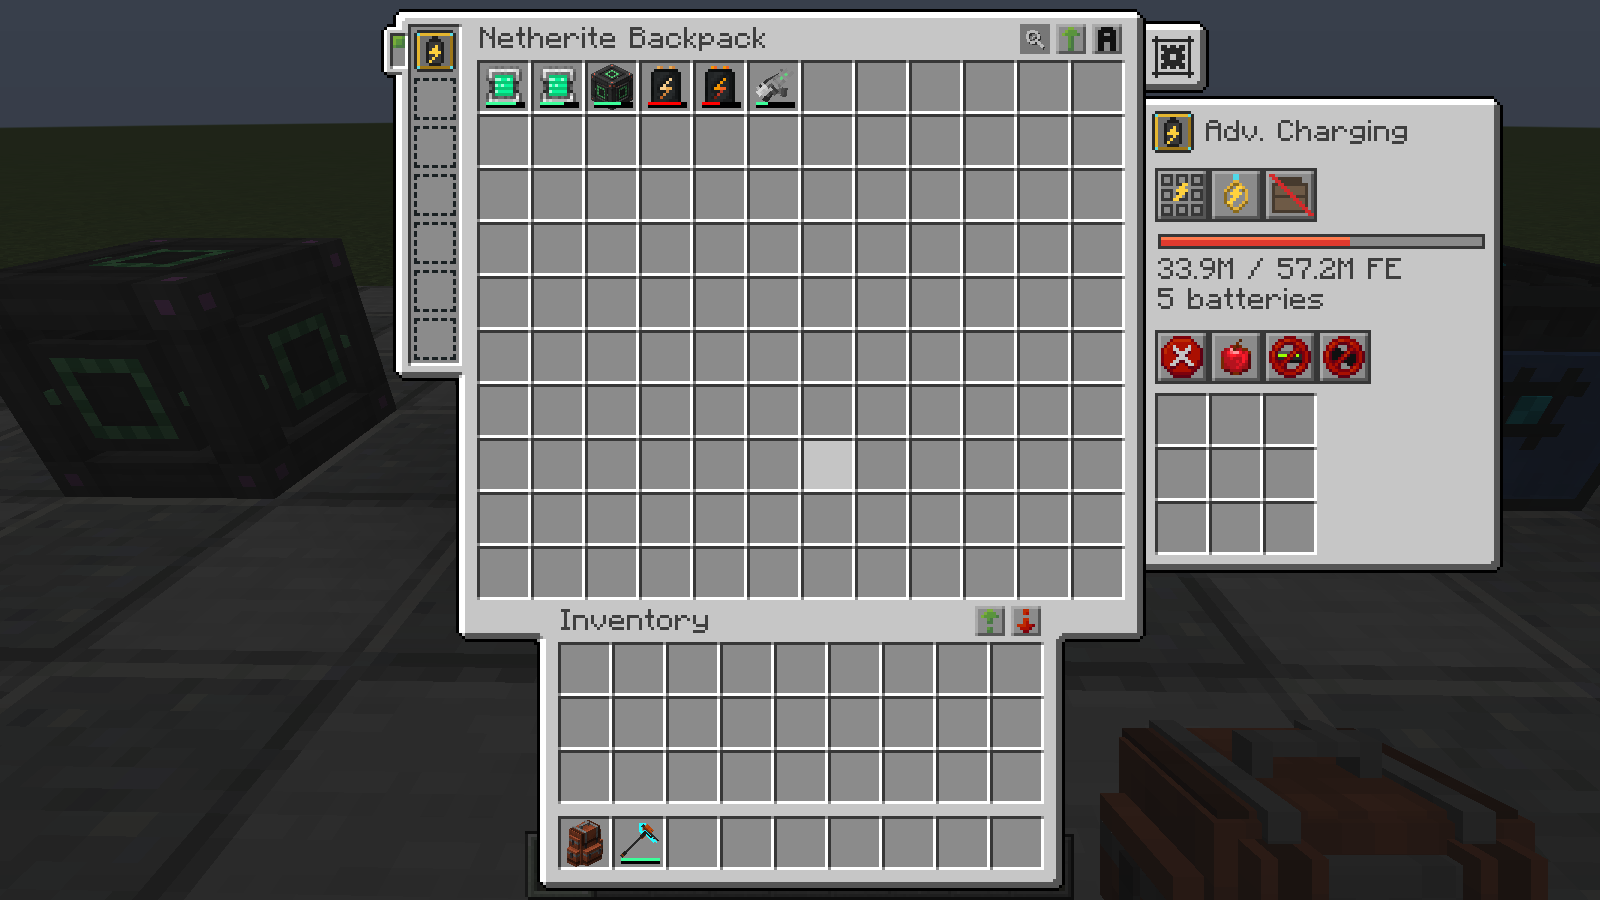
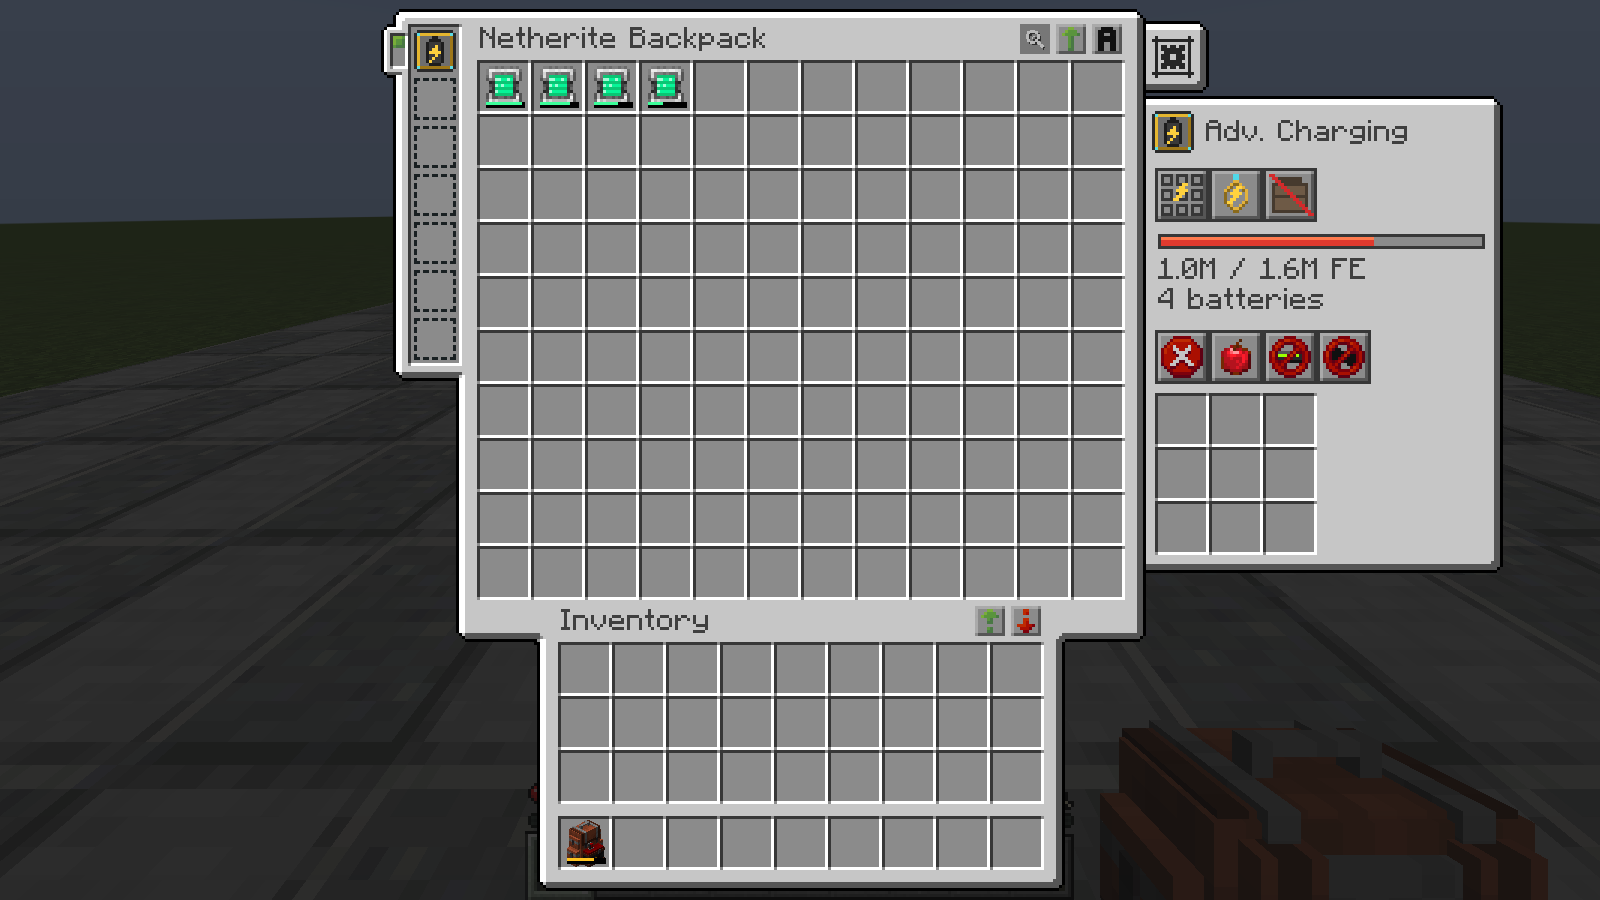
Update the README and images for 1.1.0

diff --git a/README.md b/README.md
@@ -5,7 +5,7 @@
 An addon for [Sophisticated Backpacks](https://www.curseforge.com/minecraft/mc-mods/sophisticated-backpacks) that turns a
 backpack full of batteries into one big power bank that charges your gear.
 
-![A MekaSuit kept charged by the batteries in the backpack](docs/images/in-world.png)
+![A worn and a placed backpack, each showing its pool's charge on the battery of the backpack model](docs/images/in-world.png)
 
 | Minecraft | Loader | Needs |
 |---|---|---|
@@ -22,11 +22,16 @@ Curios is optional. Install Sophisticated Charging on both the server and the cl
 - While you carry or wear the backpack, the pool charges your **armor and the items in both hands**.
 - Cables and chargers see the backpack (held or placed) as **one big battery**: put it on a charger and every battery
   inside fills up; pull from a placed backpack and they all drain.
-- You can see the pool's charge at a glance: on the battery on the side of the backpack (worn, held or placed) and as a
-  gold bar under the backpack icon in your inventory and hotbar, and as a percentage in the backpack's tooltip.
 - 1,000 FE/t by default.
 
-![Charging Upgrade tab: two Energy Tablets, an energy cube and two Powah batteries form one 57M FE pool; the Meka-Tool next to them is not counted](docs/images/basic-tab.png)
+![Charging Upgrade tab: four Energy Tablets form one pool, shown with its total charge and battery count](docs/images/basic-tab.png)
+
+### See the charge at a glance
+- On the backpack itself: the battery on the backpack model shows the whole pool, worn, held or placed.
+- A gold bar under the backpack's icon in your inventory and hotbar.
+- The backpack's tooltip says how much is left ("Charge: 73%").
+
+![Inventory: gold charge bars under the backpacks in the hotbar and a tooltip saying Charge: 73%](docs/images/charge-display.png)
 
 ### Advanced Charging Upgrade
 Everything above, plus:
